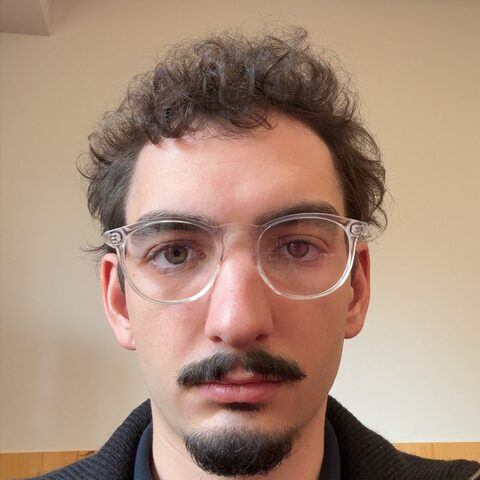
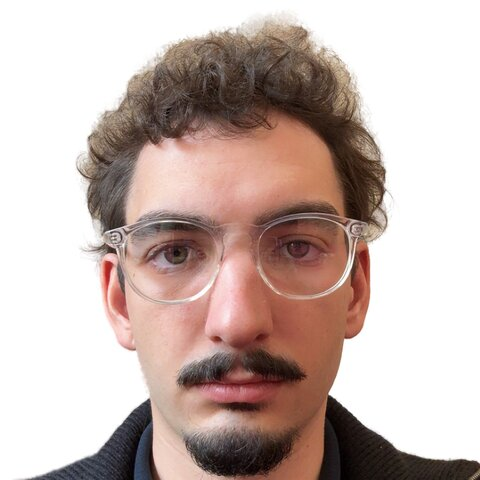
Couleurs plus claires, indicateur de défilement, poste recherché, photo fond blanc

diff --git a/assets/style.css b/assets/style.css
@@ -9,18 +9,18 @@
 }
 
 :root {
-  --bg: #0b0f14;
-  --surface: #111823;
-  --surface-2: #0e141c;
-  --raised: #16202d;
-  --border: #233040;
-  --text: #e6edf3;
-  --muted: #9aa7b4;
-  --accent: #58a6ff;   /* bleu blue-team */
-  --accent-ink: #06121f;
-  --ok: #3fb950;
-  --warn: #d29922;
-  --crit: #f85149;
+  --bg: #1a2535;
+  --surface: #233247;
+  --surface-2: #1f2d40;
+  --raised: #2c3e57;
+  --border: #3b506c;
+  --text: #f2f6fa;
+  --muted: #bcc7d3;
+  --accent: #6cb6ff;   /* bleu blue-team */
+  --accent-ink: #071526;
+  --ok: #56d364;
+  --warn: #e3b341;
+  --crit: #ff7b72;
   --sans: "Space Grotesk", system-ui, -apple-system, "Segoe UI", Roboto, sans-serif;
   --mono: "JetBrains Mono", ui-monospace, "DejaVu Sans Mono", Menlo, Consolas, monospace;
   --margin: clamp(16px, 4vw, 48px);
@@ -80,7 +80,7 @@ body::after {
 /* Barre du haut */
 .site-header {
   position: sticky; top: 0; z-index: 5;
-  background: rgba(11, 15, 20, .94); border-bottom: 1px solid var(--border);
+  background: rgba(26, 37, 53, .95); border-bottom: 1px solid var(--border);
 }
 .header-inner {
   display: flex; flex-wrap: wrap; align-items: center; justify-content: space-between;
@@ -124,7 +124,29 @@ section { padding: clamp(4rem, 9vw, 7.5rem) 0 0; scroll-margin-top: 6rem; }
 .lines [data-line] { display: block; }
 .lead { font-size: clamp(1.25rem, 2.2vw, 1.6rem); line-height: 1.35; font-weight: 500; margin: 0 0 1rem; max-width: 34rem; }
 .lead strong { color: var(--accent); font-weight: 600; }
-.hero-copy > p:not(.lead) { max-width: 36rem; margin: 0; }
+.hero-copy > p:not(.lead):not(.target) { max-width: 36rem; margin: 0; }
+.target {
+  display: flex; flex-wrap: wrap; align-items: baseline; gap: .35rem .75rem;
+  margin: 0 0 1.25rem; padding: .7rem 1rem; max-width: 36rem;
+  background: var(--surface); border-radius: 4px; box-shadow: inset 3px 0 0 var(--ok);
+  font-weight: 600; font-size: 1.1rem;
+}
+.target-label { font: 600 .8rem var(--mono); color: var(--ok); }
+
+/* Indicateur de défilement sur le côté (rempli par main.js, masqué sans script) */
+.progress { display: none; }
+.js .progress {
+  position: fixed; right: clamp(8px, 1.5vw, 24px); top: 50%; transform: translateY(-50%); z-index: 4;
+  display: flex; flex-direction: column; align-items: center; gap: .6rem; pointer-events: none;
+}
+.progress-track { width: 4px; height: 38vh; background: var(--raised); border-radius: 2px; overflow: clip; }
+.progress-fill { width: 100%; height: 100%; background: var(--accent); transform-origin: top; transform: scaleY(0); }
+.progress-val { font: 600 .8rem var(--mono); color: var(--text); background: var(--surface); padding: .15rem .4rem; border-radius: 3px; font-variant-numeric: tabular-nums; min-width: 3.4em; text-align: center; }
+@media (max-width: 56rem) {
+  .js .progress { right: 4px; }
+  .progress-track { width: 3px; height: 30vh; }
+  .progress-val { display: none; }
+}
 .actions { display: flex; flex-wrap: wrap; gap: .75rem; margin-top: 2rem; }
 
 .btn {
@@ -149,7 +171,8 @@ section { padding: clamp(4rem, 9vw, 7.5rem) 0 0; scroll-margin-top: 6rem; }
 .feed .live { color: var(--ok); }
 
 /* Indicateurs */
-.kpis { display: grid; gap: 1px; grid-template-columns: repeat(2, minmax(0, 1fr)); margin-top: clamp(3rem, 7vw, 5rem); background: var(--border); border-radius: 6px; overflow: clip; }
+.kpis { display: grid; gap: 4px; grid-template-columns: repeat(2, minmax(0, 1fr)); margin-top: clamp(3rem, 7vw, 5rem); }
+.kpi { border-radius: 4px; }
 @media (min-width: 56rem) { .kpis { grid-template-columns: repeat(4, minmax(0, 1fr)); } }
 .kpi { background: var(--surface); padding: 1.25rem 1.25rem 1.4rem; margin: 0; }
 .kpi-val { display: block; font: 700 clamp(2.5rem, 5vw, 3.75rem)/1 var(--mono); color: var(--accent); letter-spacing: -0.03em; font-variant-numeric: tabular-nums; }

diff --git a/index.html b/index.html
@@ -5,13 +5,13 @@
   <meta name="viewport" content="width=device-width, initial-scale=1">
   <meta http-equiv="Content-Security-Policy" content="default-src 'none'; script-src 'self'; style-src 'self'; img-src 'self'; font-src 'self'; base-uri 'none'; form-action 'none'">
   <meta name="referrer" content="no-referrer">
-  <meta name="theme-color" content="#0b0f14">
+  <meta name="theme-color" content="#1a2535">
   <title>Justin Huchet – Systèmes, réseau &amp; cybersécurité</title>
-  <meta name="description" content="Portfolio de Justin Huchet, administrateur systèmes et réseau en alternance, orienté cybersécurité : SIEM, homelab, labs réseau, pentest Active Directory.">
+  <meta name="description" content="Portfolio de Justin Huchet, administrateur systèmes et réseau en alternance, à la recherche d'un poste junior en cybersécurité orienté systèmes et réseaux : SIEM, homelab, labs réseau, pentest Active Directory.">
   <link rel="icon" href="assets/favicon.svg" type="image/svg+xml">
   <link rel="preload" href="assets/fonts/space-grotesk.woff2" as="font" type="font/woff2" crossorigin>
-  <link rel="stylesheet" href="assets/style.css">
-  <script src="assets/main.js"></script>
+  <link rel="stylesheet" href="assets/style.css?v=3">
+  <script src="assets/main.js?v=2"></script>
   <link rel="alternate" hreflang="fr" href="https://nba-jurgarl.github.io/">
   <link rel="alternate" hreflang="en" href="https://nba-jurgarl.github.io/en/">
 </head>
@@ -34,13 +34,15 @@
     </div>
     <div class="statusbar-row">
       <p class="wrap statusbar">
-        <span><span class="dot" aria-hidden="true"></span>Ouvert aux opportunités</span>
+        <span><span class="dot" aria-hidden="true"></span>Recherche : poste junior en cybersécurité</span>
         <span>Lyon, FR</span>
         <span>Mobilité : France · Canada</span>
         <span>Focus : SOC/SIEM · hardening · pentest AD</span>
       </p>
     </div>
   </header>
+
+  <div class="progress" aria-hidden="true"><div class="progress-track"><div class="progress-fill"></div></div><span class="progress-val">0%</span></div>
 
   <main id="contenu">
     <!-- ===== ACCUEIL / À PROPOS ===== -->
@@ -53,6 +55,7 @@
               <span class="line"><span data-line>Huchet</span></span>
             </h1>
             <p class="lead" data-load="1">Administrateur systèmes &amp; réseau en alternance, <strong>en route vers la cybersécurité</strong>.</p>
+            <p class="target" data-load="2"><span class="target-label">Poste recherché</span> Junior en cybersécurité, orienté systèmes et réseaux</p>
             <p data-load="2">
               En mastère RNCP niveau 7 « Ingénieur systèmes, réseaux et cybersécurité » (fin en 2027).
               Je m'intéresse en particulier au pentest Active Directory, au hardening et à la détection (SOC/SIEM).
@@ -64,7 +67,7 @@
           </div>
           <figure class="feed" data-load="4">
             <div class="feed-frame">
-              <img src="assets/photo.jpg?v=2" alt="Photo de Justin Huchet" width="480" height="480" fetchpriority="high">
+              <img src="assets/photo.jpg?v=3" alt="Photo de Justin Huchet" width="480" height="480" fetchpriority="high">
             </div>
             <figcaption><span class="live">● En ligne</span><span>Lyon, France</span></figcaption>
           </figure>

diff --git a/en/index.html b/en/index.html
@@ -5,13 +5,13 @@
   <meta name="viewport" content="width=device-width, initial-scale=1">
   <meta http-equiv="Content-Security-Policy" content="default-src 'none'; script-src 'self'; style-src 'self'; img-src 'self'; font-src 'self'; base-uri 'none'; form-action 'none'">
   <meta name="referrer" content="no-referrer">
-  <meta name="theme-color" content="#0b0f14">
+  <meta name="theme-color" content="#1a2535">
   <title>Justin Huchet – Systems, Networks &amp; Cybersecurity</title>
-  <meta name="description" content="Portfolio of Justin Huchet, work-study systems and network administrator focused on cybersecurity: SIEM, homelab, network labs, Active Directory pentesting.">
+  <meta name="description" content="Portfolio of Justin Huchet, work-study systems and network administrator looking for a junior cybersecurity role focused on systems and networks: SIEM, homelab, network labs, Active Directory pentesting.">
   <link rel="icon" href="../assets/favicon.svg" type="image/svg+xml">
   <link rel="preload" href="../assets/fonts/space-grotesk.woff2" as="font" type="font/woff2" crossorigin>
-  <link rel="stylesheet" href="../assets/style.css">
-  <script src="../assets/main.js"></script>
+  <link rel="stylesheet" href="../assets/style.css?v=3">
+  <script src="../assets/main.js?v=2"></script>
   <link rel="alternate" hreflang="fr" href="https://nba-jurgarl.github.io/">
   <link rel="alternate" hreflang="en" href="https://nba-jurgarl.github.io/en/">
 </head>
@@ -34,13 +34,15 @@
     </div>
     <div class="statusbar-row">
       <p class="wrap statusbar">
-        <span><span class="dot" aria-hidden="true"></span>Open to opportunities</span>
+        <span><span class="dot" aria-hidden="true"></span>Looking for: junior cybersecurity role</span>
         <span>Lyon, FR</span>
         <span>Mobility: France · Canada</span>
         <span>Focus: SOC/SIEM · hardening · AD pentesting</span>
       </p>
     </div>
   </header>
+
+  <div class="progress" aria-hidden="true"><div class="progress-track"><div class="progress-fill"></div></div><span class="progress-val">0%</span></div>
 
   <main id="content">
     <!-- ===== HOME / ABOUT ===== -->
@@ -53,6 +55,7 @@
               <span class="line"><span data-line>Huchet</span></span>
             </h1>
             <p class="lead" data-load="1">Work-study systems &amp; network administrator, <strong>heading into cybersecurity</strong>.</p>
+            <p class="target" data-load="2"><span class="target-label">Target role</span> Junior cybersecurity, focused on systems and networks</p>
             <p data-load="2">
               Currently in a Master's-level programme (French RNCP level 7, “Systems, Network &amp; Cybersecurity Engineer”, ending in 2027).
               I am especially interested in Active Directory pentesting, hardening and detection (SOC/SIEM).
@@ -64,7 +67,7 @@
           </div>
           <figure class="feed" data-load="4">
             <div class="feed-frame">
-              <img src="../assets/photo.jpg?v=2" alt="Photo of Justin Huchet" width="480" height="480" fetchpriority="high">
+              <img src="../assets/photo.jpg?v=3" alt="Photo of Justin Huchet" width="480" height="480" fetchpriority="high">
             </div>
             <figcaption><span class="live">● Online</span><span>Lyon, France</span></figcaption>
           </figure>

diff --git a/assets/main.js b/assets/main.js
@@ -3,7 +3,27 @@ document.documentElement.classList.add('js');
 
 document.addEventListener('DOMContentLoaded', () => {
   const reduced = matchMedia('(prefers-reduced-motion: reduce)').matches;
+
+  // Indicateur de défilement : barre + pourcentage, recalculé une fois par image
+  const fill = document.querySelector('.progress-fill');
+  const val = document.querySelector('.progress-val');
+  if (fill && val) {
+    let queued = false;
+    const update = () => {
+      queued = false;
+      const max = document.documentElement.scrollHeight - innerHeight;
+      const p = max > 0 ? Math.min(1, Math.max(0, scrollY / max)) : 1;
+      fill.style.transform = `scaleY(${p})`;
+      val.textContent = `${Math.round(p * 100)}%`;
+    };
+    const queue = () => { if (!queued) { queued = true; requestAnimationFrame(update); } };
+    addEventListener('scroll', queue, { passive: true });
+    addEventListener('resize', queue);
+    update();
+  }
   const hasIO = 'IntersectionObserver' in window;
+  // Ce qui est déjà à l'écran apparaît tout de suite, sans dépendre de l'observateur
+  const inView = (el) => el.getBoundingClientRect().top < innerHeight * 0.95;
 
   // Apparition des blocs au défilement, une seule fois
   const blocks = document.querySelectorAll('[data-reveal]');
@@ -13,7 +33,7 @@ document.addEventListener('DOMContentLoaded', () => {
     const io = new IntersectionObserver((entries) => {
       for (const e of entries) if (e.isIntersecting) { e.target.classList.add('is-in'); io.unobserve(e.target); }
     }, { rootMargin: '0px 0px -10% 0px', threshold: 0.1 });
-    blocks.forEach((el) => io.observe(el));
+    blocks.forEach((el) => (inView(el) ? el.classList.add('is-in') : io.observe(el)));
   }
 
   // Indicateurs : chaque chiffre défile jusqu'à sa valeur ; le texte réel reste lu par les lecteurs d'écran
@@ -41,5 +61,6 @@ document.addEventListener('DOMContentLoaded', () => {
   const io2 = new IntersectionObserver((entries) => {
     for (const e of entries) if (e.isIntersecting) { e.target.classList.add('is-in'); io2.unobserve(e.target); }
   }, { rootMargin: '0px 0px -15% 0px' });
-  figures.forEach((el) => io2.observe(el));
+  // requestAnimationFrame : laisse le navigateur peindre la position de départ avant de lancer le défilement
+  requestAnimationFrame(() => figures.forEach((el) => (inView(el) ? el.classList.add('is-in') : io2.observe(el))));
 });
